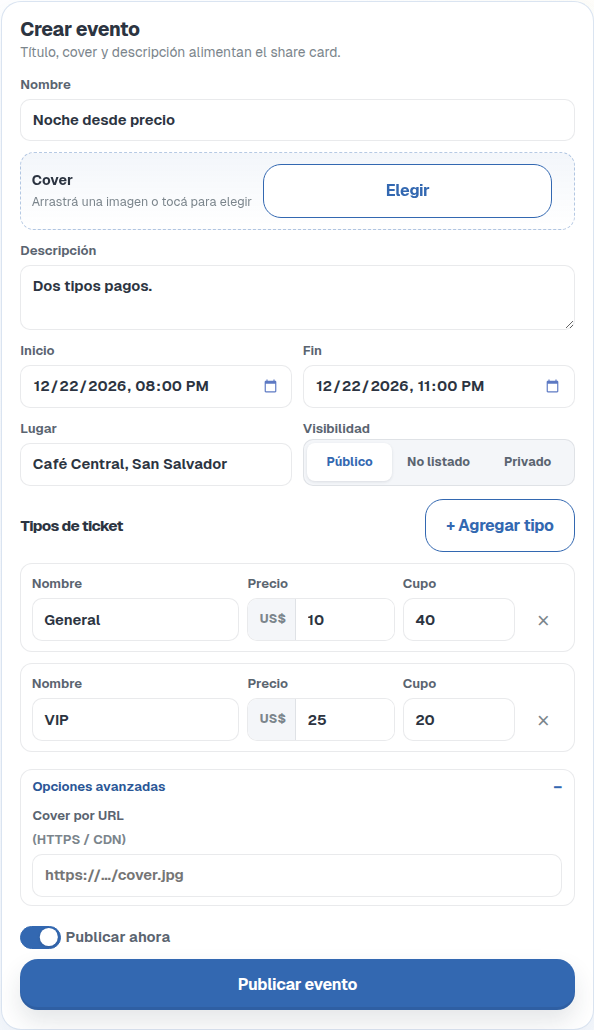
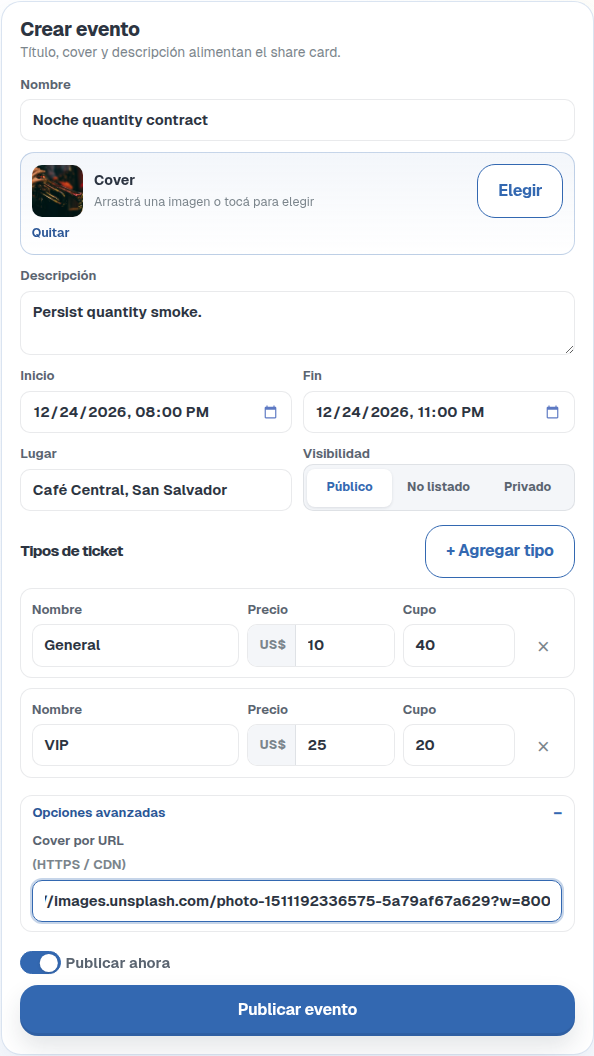
fix(U20): create quantity contract, cover URL advanced + drop hint
Send ticketTypes[].quantity (Nest contract); keep Cover por URL in
collapsed Opciones avanzadas; warn when file drop is preview-only.

diff --git a/src/styles/global.css b/src/styles/global.css
@@ -2166,6 +2166,7 @@ button.btn.btn--ghost:hover {
 }
 
 .create-preview__card {
+  position: relative;
   border-radius: var(--radius-lg);
   overflow: hidden;
   border: 1px solid var(--line);
@@ -2478,6 +2479,34 @@ button.btn.btn--ghost:hover {
   cursor: pointer;
   margin: 0.35rem 0 0;
   padding: 0;
+}
+
+.cover-drop__hint {
+  margin: 0.45rem 0 0;
+  font-size: 0.78rem;
+  line-height: 1.35;
+  color: var(--muted);
+}
+
+.create-preview__cover-badge {
+  position: absolute;
+  top: 0.75rem;
+  left: 0.75rem;
+  z-index: 3;
+  margin: 0;
+  padding: 0.22rem 0.5rem;
+  border-radius: 999px;
+  background: rgba(44, 52, 65, 0.72);
+  color: #fff;
+  font-size: 0.68rem;
+  font-weight: 700;
+  letter-spacing: 0.02em;
+  pointer-events: none;
+}
+
+.create-preview__cover.is-preview-only {
+  outline: 2px dashed rgba(123, 133, 140, 0.55);
+  outline-offset: -2px;
 }
 
 .create-advanced {

diff --git a/src/lib/types.ts b/src/lib/types.ts
@@ -19,6 +19,8 @@ export interface TicketType {
   /** Price in major units (USD) or as returned by API; UI treats 0 as free. */
   price: number;
   currency?: string;
+  /** Nest cupo — preferred over capacity. */
+  quantity?: number | null;
   capacity?: number | null;
   remaining?: number | null;
   available?: number | null;
@@ -227,6 +229,9 @@ export interface CreateEventPayload {
   ticketTypes: Array<{
     name: string;
     price: number;
+    /** Nest create contract — cupo/stock for the type. */
+    quantity?: number | null;
+    /** Legacy alias — prefer `quantity`. */
     capacity?: number | null;
     description?: string;
   }>;

diff --git a/src/lib/format.ts b/src/lib/format.ts
@@ -67,10 +67,16 @@ export function remainingStock(tt: TicketType): number | null {
   for (const c of candidates) {
     if (typeof c === 'number') return c;
   }
-  if (typeof tt.capacity === 'number' && typeof tt.sold === 'number') {
-    return Math.max(0, tt.capacity - tt.sold);
+  const cap =
+    typeof tt.quantity === 'number'
+      ? tt.quantity
+      : typeof tt.capacity === 'number'
+        ? tt.capacity
+        : null;
+  if (cap != null && typeof tt.sold === 'number') {
+    return Math.max(0, cap - tt.sold);
   }
-  if (typeof tt.capacity === 'number') return tt.capacity;
+  if (cap != null) return cap;
   return null;
 }
 
